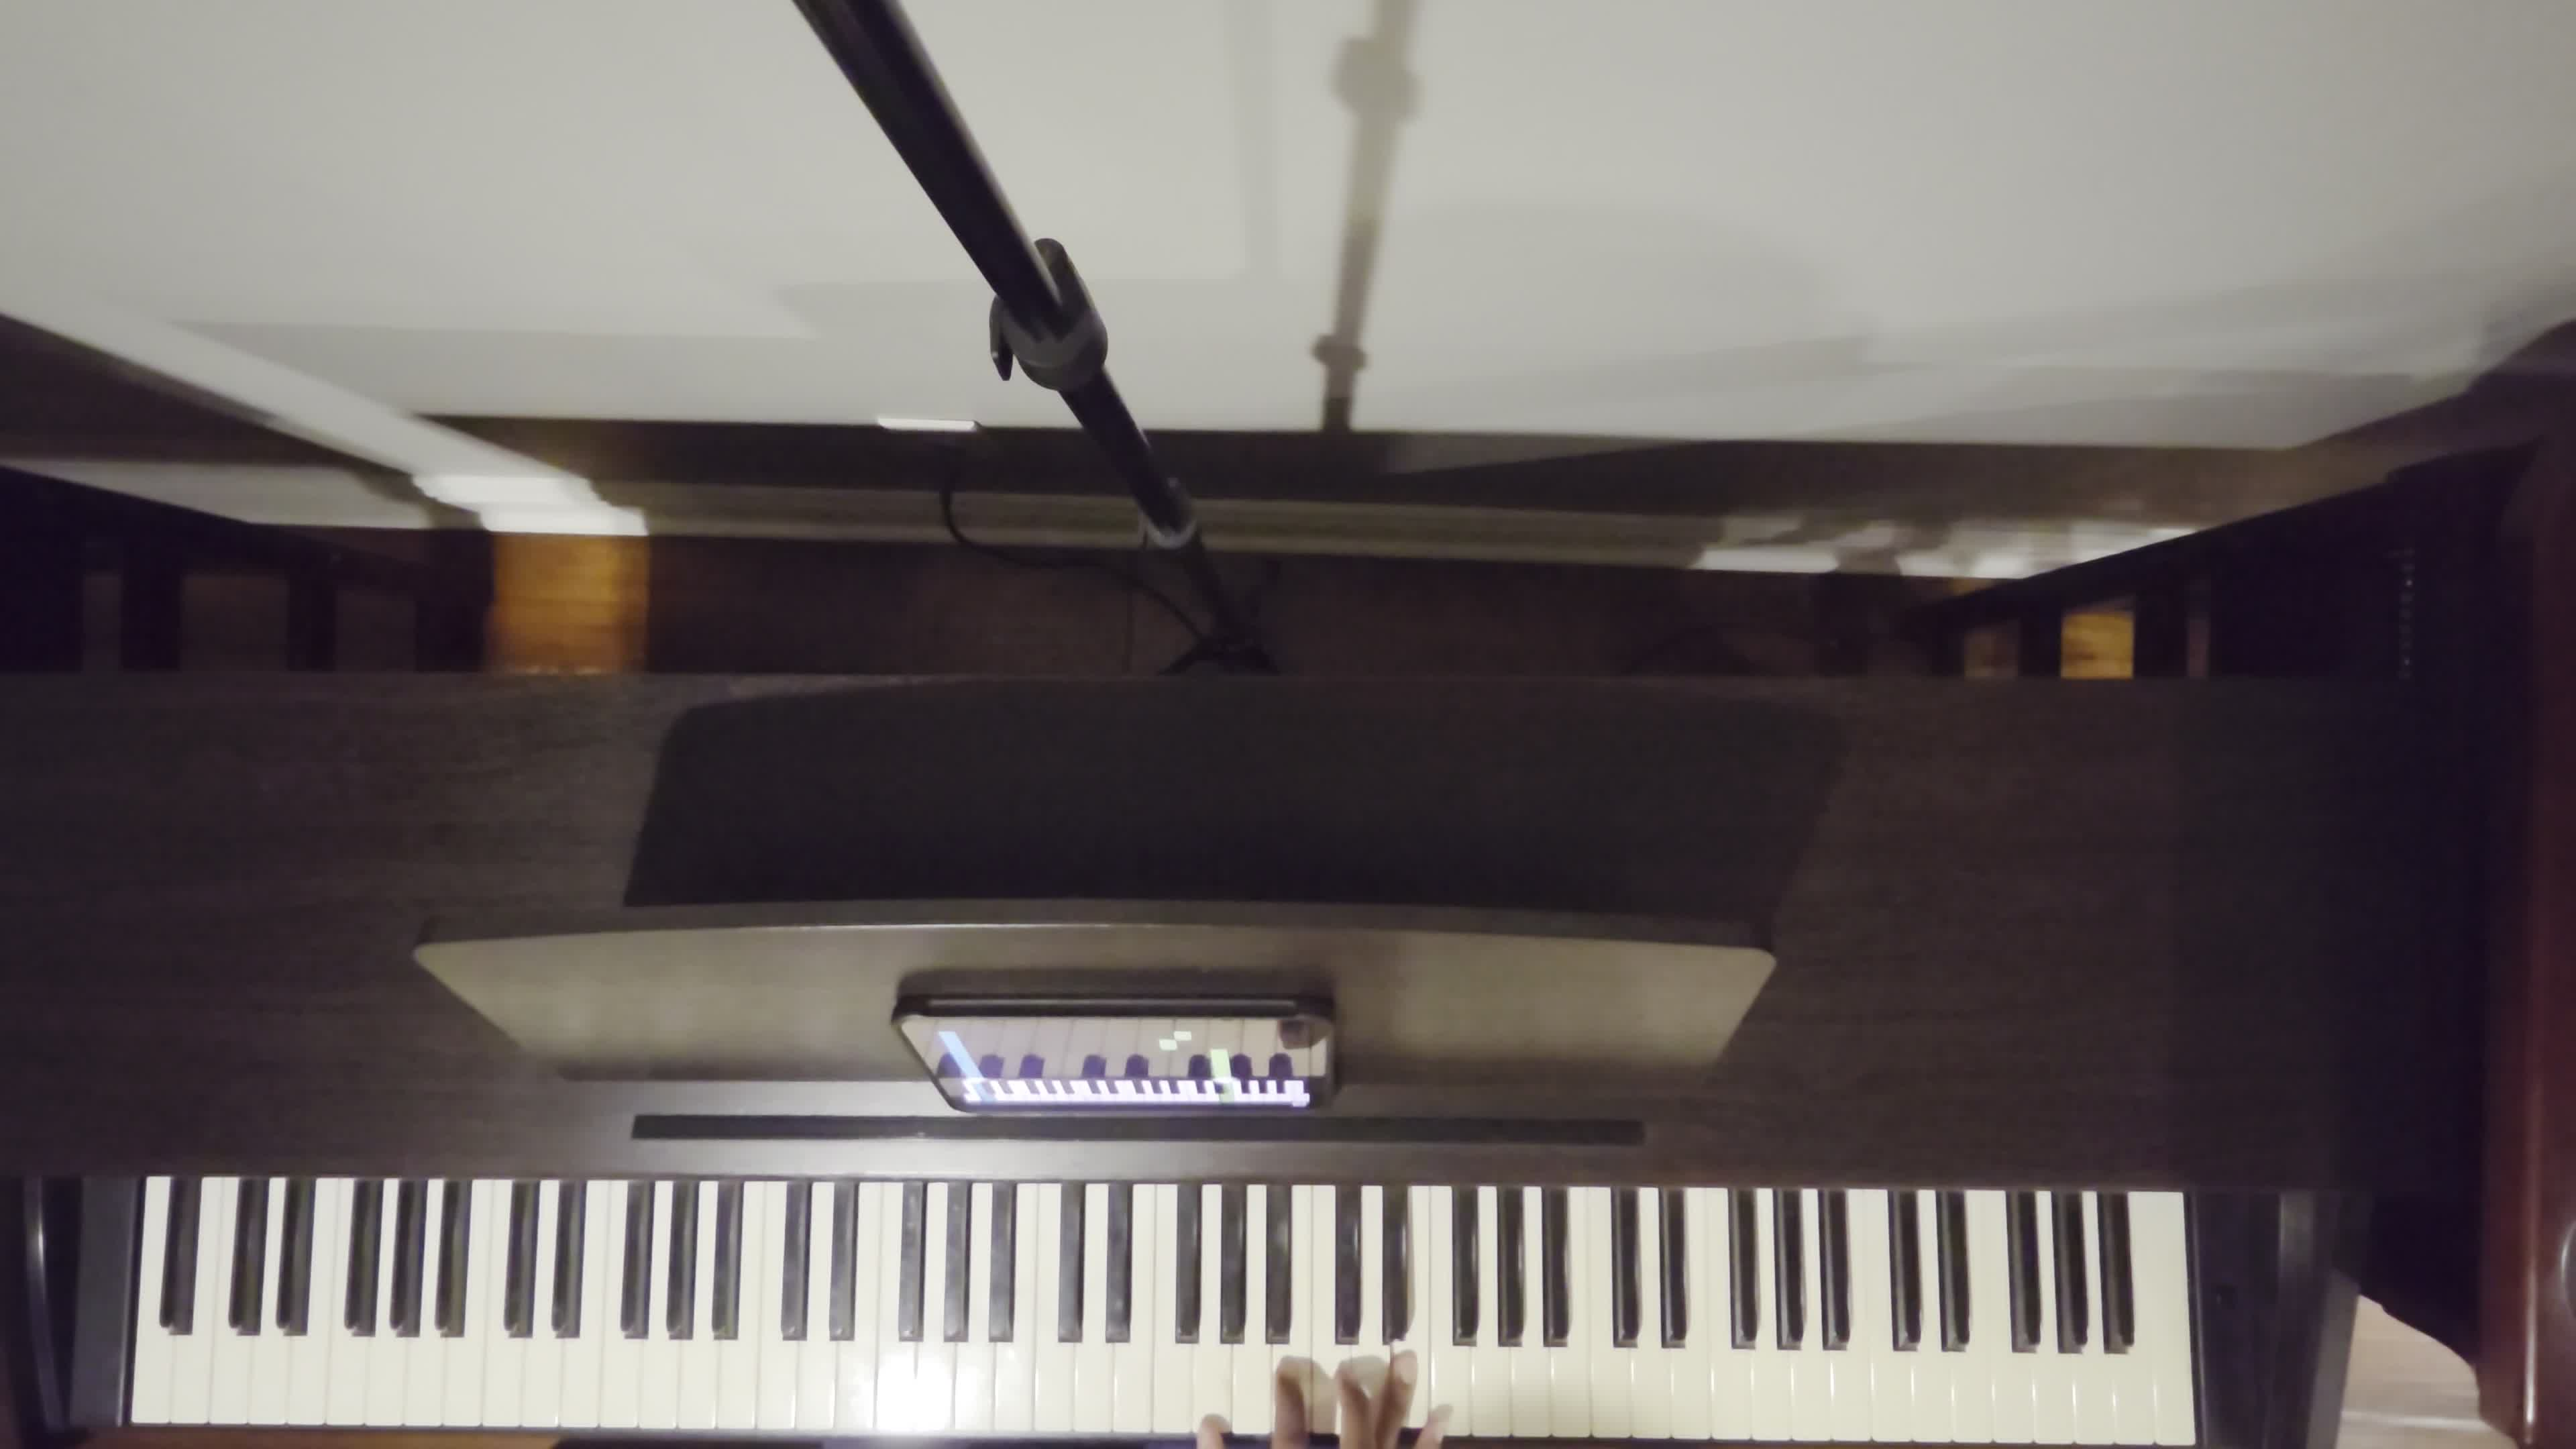
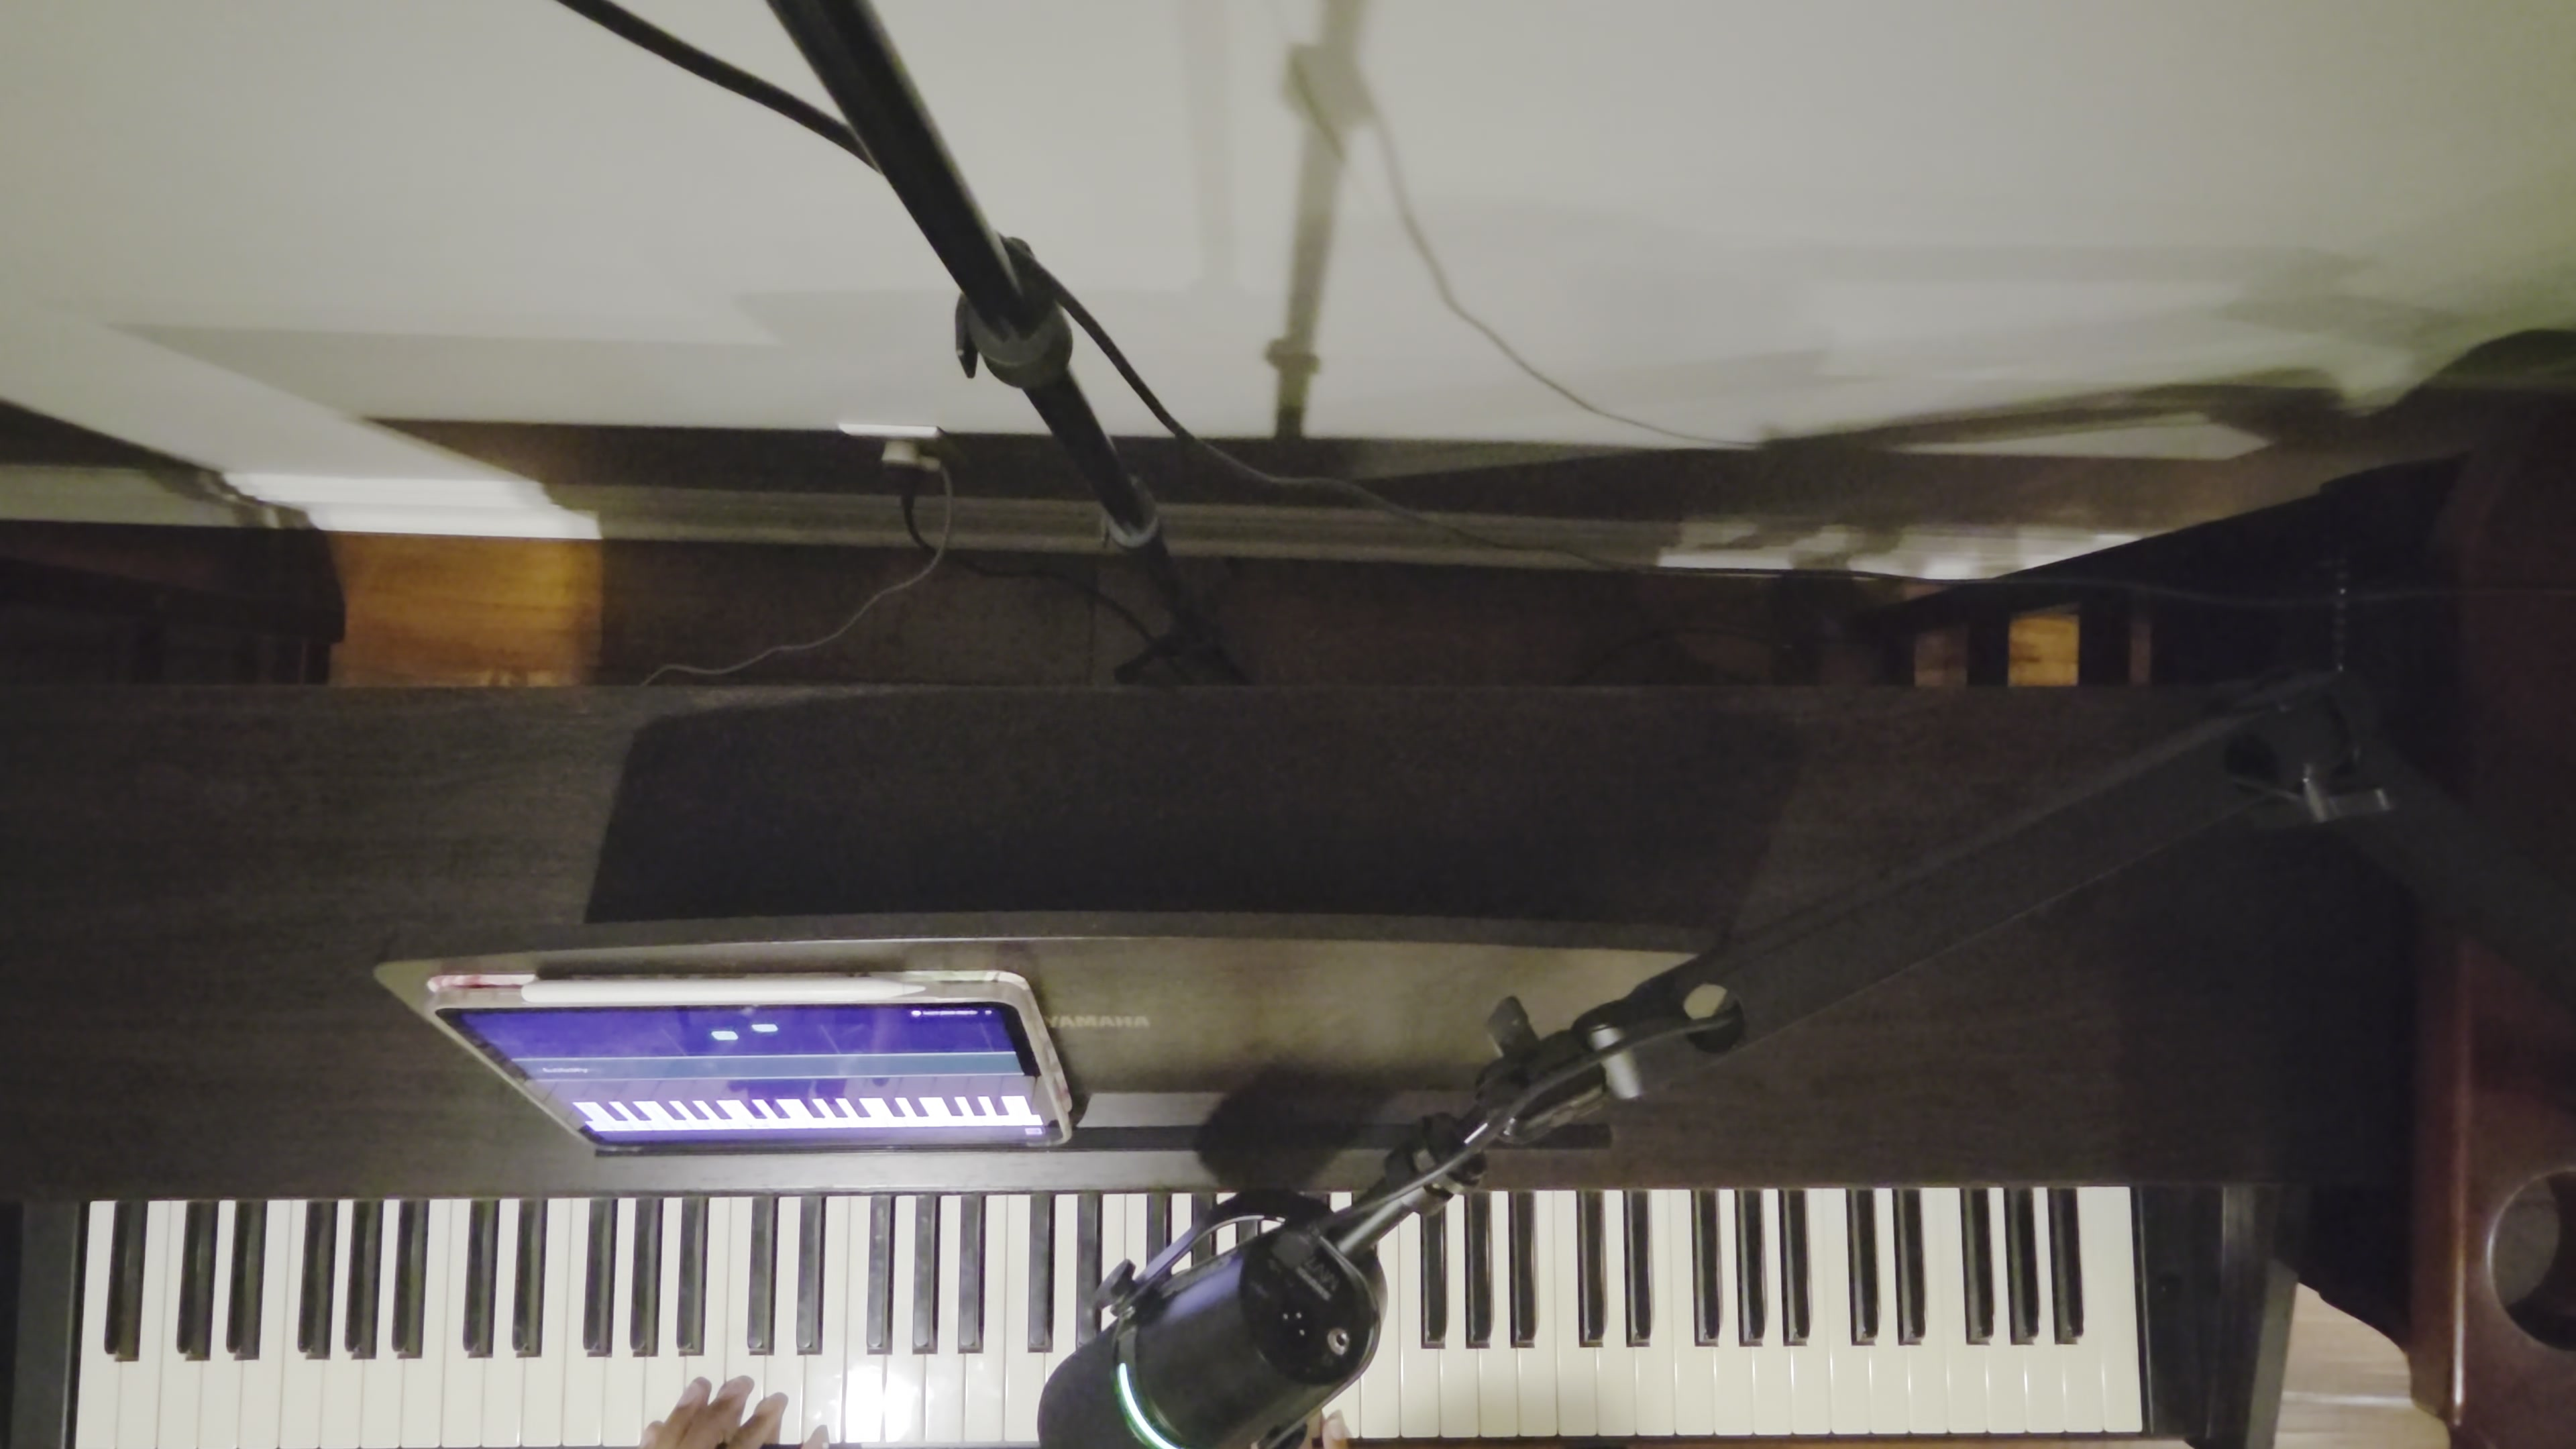
Update backdrop video and add lyric overlay system

diff --git a/index.html b/index.html
@@ -164,6 +164,41 @@
       transform: translateY(0);
     }
 
+    .lyrics-wrap {
+      position: absolute;
+      left: 50%;
+      bottom: 11vh;
+      transform: translateX(-50%);
+      width: min(80vw, 900px);
+      display: flex;
+      justify-content: center;
+      pointer-events: none;
+      z-index: 4;
+    }
+
+    .lyrics-line {
+      margin: 0;
+      min-height: 2.7em;
+      max-width: min(76vw, 760px);
+      text-align: center;
+      font-family: "Segoe UI", Inter, Helvetica, Arial, sans-serif;
+      font-size: clamp(1.05rem, 1.9vw, 1.6rem);
+      font-weight: 300;
+      line-height: 1.45;
+      letter-spacing: 0.03em;
+      color: rgba(243, 244, 255, 0.84);
+      text-shadow: 0 0 22px rgba(8, 10, 24, 0.3), 0 0 42px rgba(8, 10, 24, 0.18);
+      opacity: 0;
+      transform: translateY(10px);
+      transition: opacity 600ms ease, transform 600ms ease;
+      white-space: pre-line;
+    }
+
+    .lyrics-line.visible {
+      opacity: 1;
+      transform: translateY(0);
+    }
+
     .line::before,
     .line::after {
       content: "";
@@ -295,6 +330,16 @@
         margin: 0 0.6rem;
       }
 
+      .lyrics-wrap {
+        width: min(88vw, 620px);
+        bottom: 90px;
+      }
+
+      .lyrics-line {
+        font-size: clamp(1rem, 4.4vw, 1.22rem);
+        min-height: 3.2em;
+      }
+
       .hint {
         display: none;
       }
@@ -349,6 +394,10 @@
     </div>
   </div>
 
+  <div class="lyrics-wrap" aria-live="polite" aria-atomic="true">
+    <p class="lyrics-line" id="lyricsLine"></p>
+  </div>
+
   <div class="hint">Autoplaying muted • use Unmute for sound</div>
   <button class="sound-toggle" id="soundToggle" type="button" aria-pressed="false" aria-label="Unmute audio">Unmute</button>
 
@@ -356,12 +405,21 @@
     const RECIPIENT_NAME = 'Favor';
     const dedicationText = '“Lovely” — Billie Ellish';
     const DEDICATION_DELAY_MS = 180000;
+    const LYRIC_CUES = [
+      // Add timed lyric cues here when you have approved text to use.
+      // Format: { start: 12.4, end: 16.8, text: 'Your lyric line' }
+      // Example placeholders below keep the display system wired up without embedding copyrighted full lyrics.
+      { start: 20, end: 28, text: '[Opening lyric line]' },
+      { start: 56, end: 64, text: '[Next lyric line]' },
+      { start: 116, end: 124, text: '[Late-song lyric line]' }
+    ];
     const videoA = document.getElementById('bgVideoA');
     const videoB = document.getElementById('bgVideoB');
     const videos = [videoA, videoB];
     const hint = document.querySelector('.hint');
     const soundToggle = document.getElementById('soundToggle');
     const dedicationEl = document.getElementById('dedication');
+    const lyricsLineEl = document.getElementById('lyricsLine');
     const reducedMotionQuery = window.matchMedia('(prefers-reduced-motion: reduce)');
     const CROSSFADE_SECONDS = 2.4;
     const VIDEO_MAX_OPACITY = 0.62;
@@ -373,6 +431,7 @@
     let audioEnabled = false;
     let dedicationTimer = null;
     let dedicationShown = false;
+    let activeLyricIndex = -1;
 
     document.getElementById('recipientName').textContent = RECIPIENT_NAME;
     dedicationEl.textContent = dedicationText;
@@ -402,6 +461,39 @@
         videoEl.muted = !audioEnabled;
       });
       updateSoundUi();
+    }
+
+    function getPlaybackTime() {
+      if (!playbackStarted) return 0;
+      const activeTime = Number.isFinite(activeVideo.currentTime) ? activeVideo.currentTime : 0;
+      const standbyTime = Number.isFinite(standbyVideo.currentTime) ? standbyVideo.currentTime : 0;
+      return crossfadeRunning ? Math.max(activeTime, standbyTime) : activeTime;
+    }
+
+    function setLyricText(text) {
+      if (text) {
+        lyricsLineEl.textContent = text;
+        lyricsLineEl.classList.add('visible');
+      } else {
+        lyricsLineEl.classList.remove('visible');
+        lyricsLineEl.textContent = '';
+      }
+    }
+
+    function updateLyrics() {
+      if (!LYRIC_CUES.length || !playbackStarted) {
+        if (activeLyricIndex !== -1) {
+          activeLyricIndex = -1;
+          setLyricText('');
+        }
+        return;
+      }
+
+      const now = getPlaybackTime();
+      const nextIndex = LYRIC_CUES.findIndex((cue) => now >= cue.start && now < cue.end);
+      if (nextIndex === activeLyricIndex) return;
+      activeLyricIndex = nextIndex;
+      setLyricText(nextIndex === -1 ? '' : LYRIC_CUES[nextIndex].text);
     }
 
     function setLayerOpacity(videoEl, alpha) {
@@ -481,6 +573,8 @@
     function monitorLoop() {
       if (!playbackStarted || reducedMotionQuery.matches) return;
 
+      updateLyrics();
+
       if (
         !crossfadeRunning &&
         Number.isFinite(activeVideo.duration) &&
@@ -514,6 +608,8 @@
         stopLoopMonitor();
         crossfadeRunning = false;
         playbackStarted = false;
+        activeLyricIndex = -1;
+        setLyricText('');
         activeVideo = videoA;
         standbyVideo = videoB;
         resetVideoState(videoA, { volume: 0, opacity: 1, pause: true });

diff --git a/README.md b/README.md
@@ -11,15 +11,17 @@ A single-file ambient backdrop site for a live piano performance of **"Lovely"**
 ## Features
 - Uses a soft, treated piano-performance video as a moving background texture
 - Smooth two-video crossfade loop so the restart feels clean instead of snapping
+- Muted autoplay with a small Unmute / Mute control for normal visitors
 - Slow ambient motion
 - Dark midnight blue / muted purple palette
 - Soft centered dedication text
+- Timed lyric overlay system with inline cue data ready to customize
 - Canvas-based drifting light blooms
 
 ## Usage
 Open `index.html` in a browser, then press `F11` for fullscreen.
 
-Most browsers will block **autoplay with sound** until there's a user gesture, so if the audio doesn't begin immediately, click once anywhere on the page.
+The page now autoplays **muted** by default. Use the on-screen **Unmute** button if you want sound during a normal browser visit.
 
 ### Autoplay launcher
 For a Chromium-based browser, use the included launcher instead:
@@ -38,4 +40,6 @@ The page expects these local companion files to sit beside `index.html`:
 Edit these values near the top of the inline script in `index.html`:
 - `RECIPIENT_NAME`
 - `dedicationText`
+- `DEDICATION_DELAY_MS`
+- `LYRIC_CUES` — array of `{ start, end, text }` entries for timed lyric overlays
 